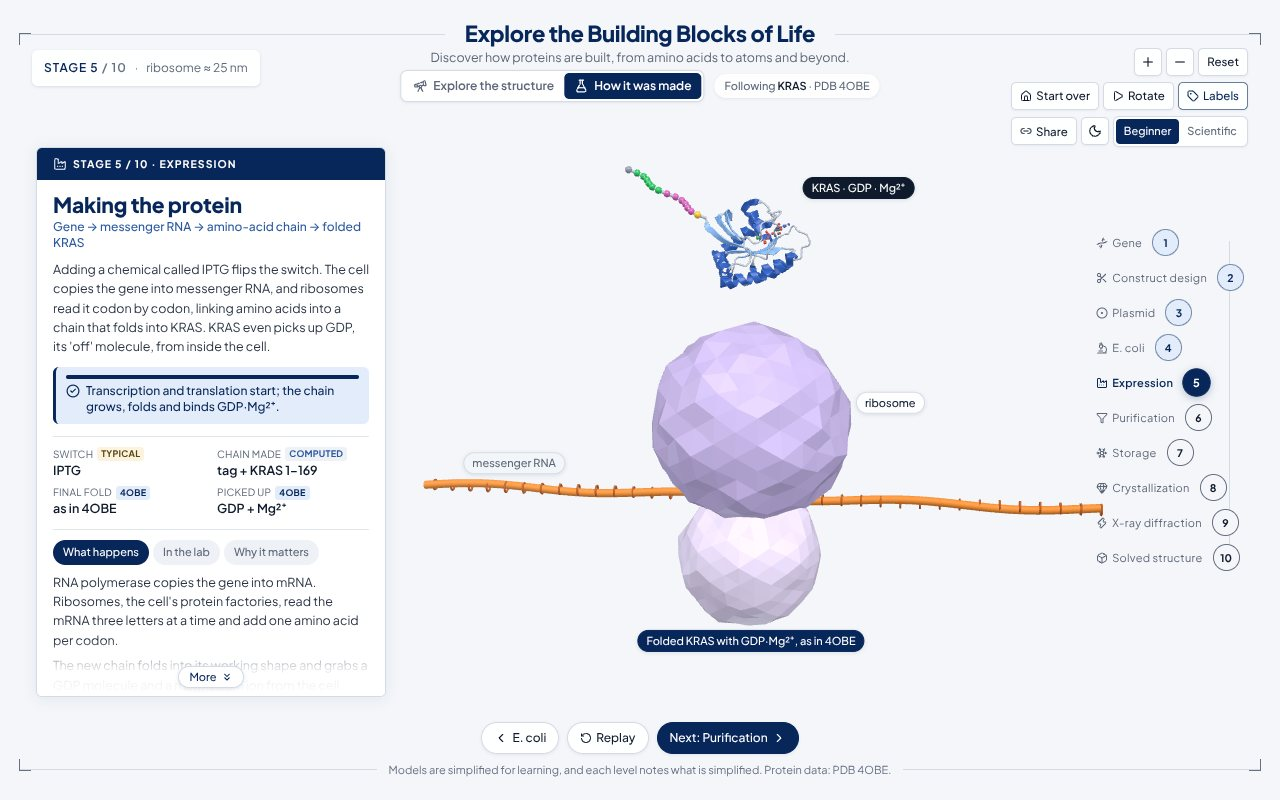
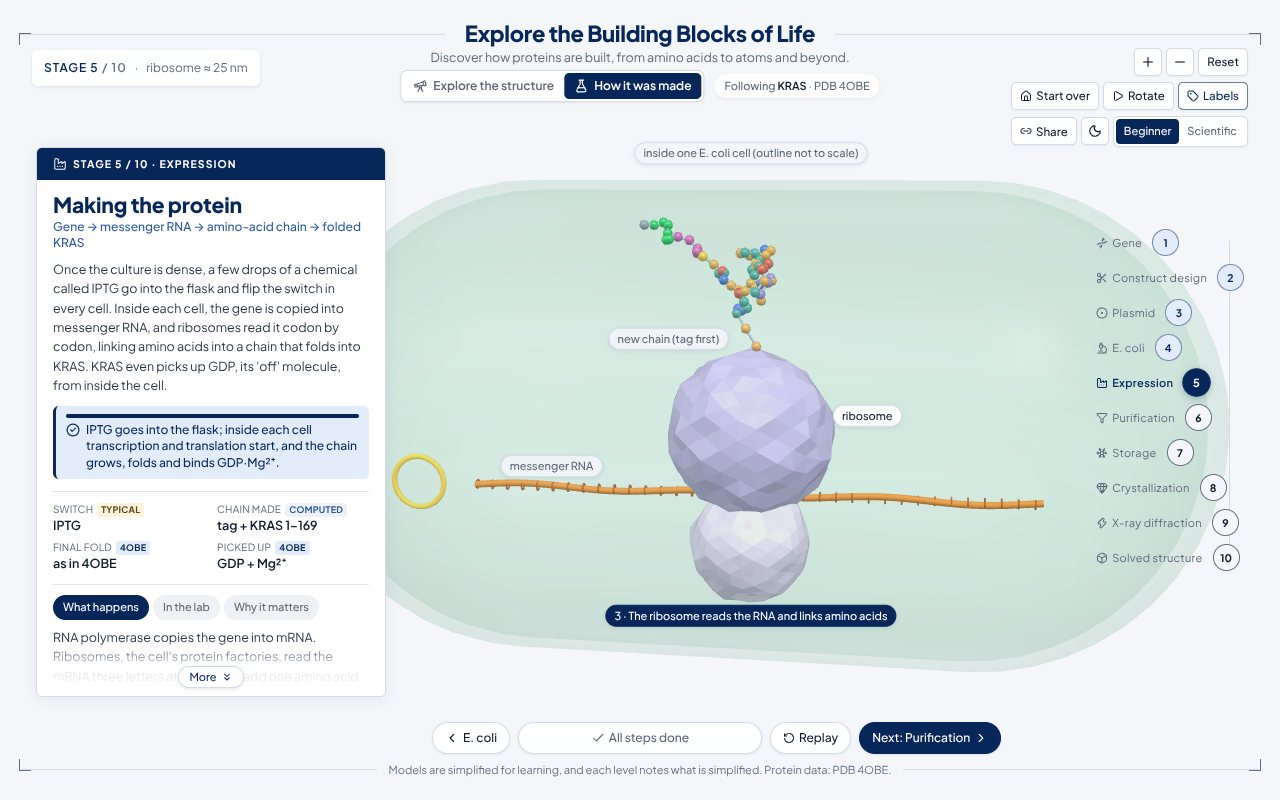
Update README for the new stage views

diff --git a/README.md b/README.md
@@ -48,24 +48,26 @@ Structures can be in either the classic PDB format (`.pdb`) or PDBx/mmCIF (`.cif
 
 ## How it was made: from gene to structure
 
-Switch to **How it was made** (top centre) to follow KRAS (PDB 4OBE) through the ten steps that produced the structure. Each stage is its own 3D scene with lab steps you trigger (**Add IPTG**, **Load the nickel column**, **Let it equilibrate**, …), a card that explains it at Beginner or Scientific level, and a note on what is simplified. Arrow keys move between stages; the last stage opens the finished structure in the explorer.
+Switch to **How it was made** (top centre) to follow KRAS (PDB 4OBE) through the ten steps that produced the structure. Each stage is its own 3D scene with lab steps you trigger (**Add IPTG**, **Load the nickel column**, **Let it equilibrate**, …), a card that explains it at Beginner or Scientific level, and a note on what is simplified. Every stage opens on its starting object (the flask, the lysate tube, the plate), and the main action button stays in the same place from step to step. Arrow keys move between stages; the last stage opens the finished structure in the explorer.
 
 | # | Stage | What you see |
 | --- | --- | --- |
 | 1 | Gene | KRAS on chromosome 12 (12p12.1), then a to-scale B-DNA close-up of codons 10 to 21 with codons 12 (GGT) and 13 (GGC) spelled out |
-| 2 | Construct design | The 188 residues trimmed to the G-domain (1 to 169) and a His-tag plus TEV site added; Gly0, which 4OBE flags as an expression tag, stays behind |
-| 3 | Plasmid | The construct pasted into a pJExpress401 ring with promoter, origin and resistance gene |
-| 4 | E. coli | BL21(DE3) cells take up the plasmid; the antibiotic clears the cells without it; the colony grows |
-| 5 | Expression | IPTG switches the gene on; a ribosome reads the mRNA and the chain folds into the real 4OBE fold and picks up GDP·Mg²⁺ |
-| 6 | Purification | Cells broken open, nickel column (flow-through, wash, imidazole), tag cut off, size exclusion, with schematic chromatograms |
-| 7 | Storage | Concentrated, split into single-use tubes, flash-frozen in liquid nitrogen, kept at −80 °C |
-| 8 | Crystallization | A hanging drop shrinks and crystals grow; inside the crystal, the real C2 unit cell holds 8 KRAS molecules made from the 2 deposited ones by symmetry |
+| 2 | Construct design | The chain is cut after Lys169 (the flexible tail 170 to 188 drifts off), then His-tag and TEV-site beads click on at the N-terminus; Gly0, which 4OBE flags as an expression tag, stays behind |
+| 3 | Plasmid | The construct DNA waits above a pJExpress401 ring, which opens at the cloning site and closes around it |
+| 4 | E. coli | Opens on a flask of broth on a shaking incubator; antibiotic goes in, the view zooms into the BL21(DE3) cells, the cell without the plasmid dies and the rest divide |
+| 5 | Expression | IPTG is pipetted into the grown culture, then the view dives into one cell: inside its outline a ribosome reads the mRNA and the chain folds into the real 4OBE fold and picks up GDP·Mg²⁺ |
+| 6 | Purification | A sonicator probe breaks the cells open in a lysate tube; then nickel column (flow-through, wash, imidazole), tag cut off and size exclusion, with schematic chromatograms |
+| 7 | Storage | The dilute pure protein is concentrated, split into 8 single-use tubes, flash-frozen in liquid nitrogen and kept at −80 °C |
+| 8 | Crystallization | A 96-well plate; the view zooms into one hanging-drop well where the drop shrinks and crystals grow, then compares it with neighbouring wells that stayed clear or precipitated. Inside the crystal, the real C2 unit cell holds 8 KRAS molecules made from the 2 deposited ones by symmetry |
 | 9 | X-ray diffraction | The crystal turns in the beam at APS 19-ID; spots calculated from the 4OBE atoms light up on an ADSC Quantum 315 detector, with a flat detector image you can hover |
-| 10 | Solved structure | Molecular replacement places a search model, refinement settles the atoms into calculated electron density, and the model is deposited as 4OBE |
+| 10 | Solved structure | An empty map box and a misplaced search model; molecular replacement places the model, refinement settles the atoms into calculated electron density, and the model is deposited as 4OBE |
 
-| Plasmid | Expression | Purification |
+| Plasmid | Shaking flask | Inside one cell |
 | --- | --- | --- |
-| ![plasmid](docs/screenshots/pipeline-3-plasmid.jpg) | ![expression](docs/screenshots/pipeline-5-expression.jpg) | ![purification](docs/screenshots/pipeline-6-purification.jpg) |
+| ![plasmid](docs/screenshots/pipeline-3-plasmid.jpg) | ![flask](docs/screenshots/pipeline-4-flask.jpg) | ![expression](docs/screenshots/pipeline-5-expression.jpg) |
+| **Sonication and columns** | **96-well plate** | **Clear, crystals, precipitate** |
+| ![purification](docs/screenshots/pipeline-6-purification.jpg) | ![plate](docs/screenshots/pipeline-8-crystal-plate.jpg) | ![outcomes](docs/screenshots/pipeline-8-crystal-drop.jpg) |
 | **Inside the crystal** | **X-ray diffraction** | **Refined in the electron density** |
 | ![unit cell](docs/screenshots/pipeline-8-crystal-lattice.jpg) | ![diffraction](docs/screenshots/pipeline-9-diffraction.jpg) | ![refined](docs/screenshots/pipeline-10-refined.jpg) |
 
@@ -155,7 +157,7 @@ For example, `/?p=kras&l=4&r=12&a=CA` opens the α-carbon of KRAS Gly12. `/?view
 * **Bead model (II).** One bead stands for a whole residue. This simplification is stated on screen.
 * **Amino acid (III).** Heavy atoms are the crystal coordinates. X-ray structures rarely resolve hydrogens, so they are placed from residue templates (4OBE includes riding hydrogens added during refinement; these are skipped so both proteins are drawn the same way) with ideal geometry (C–H 1.09 Å, N–H 1.01 Å, O–H 0.96 Å; sp³ tetrahedral, sp² trigonal). Protonation states are for pH ≈ 7: Lys/Arg protonated, Asp/Glu deprotonated, His as the Nε2–H tautomer, a charged N-terminus and C-terminus. The free amino acid uses the neutral textbook form; the scientific text notes the zwitterion. Formulas are counted from the displayed atoms and verified against reference formulas for every residue type in ubiquitin.
 * **Atom (IV).** The Bohr-style orbits carry an on-screen warning that electrons do not travel in fixed planetary orbits. The cloud view samples Slater-type 1s/2s/2p densities (Clementi–Raimondi exponents; radial nodes omitted) and fills p orbitals by Hund's rule. The nucleus is enlarged about 10⁴×; the text states the real scale ("a 1 cm marble → an atom about 280 m across").
-* **How it was made: crystal (8).** The unit cell, space group (C 1 2 1) and symmetry operators come from the file. Each of the 8 molecules in the cell is a symmetry copy of one of the two deposited chains, moved by whole cells so its centre lies inside the box; the hover gives the operator, e.g. −x+1/2, y+1/2, −z. The Matthews coefficient computed from the cell (1.99 Å³/Da, 38% solvent) matches the file. The hanging drop is schematic and days are compressed into seconds.
+* **How it was made: crystal (8).** The unit cell, space group (C 1 2 1) and symmetry operators come from the file. Each of the 8 molecules in the cell is a symmetry copy of one of the two deposited chains, moved by whole cells so its centre lies inside the box; the hover gives the operator, e.g. −x+1/2, y+1/2, −z. The Matthews coefficient computed from the cell (1.99 Å³/Da, 38% solvent) matches the file. The plate and drops are schematic and days are compressed into seconds; only the crystallizing condition comes from 4OBE, and the clear and precipitate wells beside it show typical screening outcomes.
 * **How it was made: diffraction (9).** Spots are calculated in the browser: every reflection to the file's 1.24 Å limit is enumerated from the cell, systematic absences are removed (for C2, h + k odd), and each reciprocal-lattice point is recorded where it crosses the Ewald sphere at the recorded wavelength (0.97926 Å) as the crystal turns. Intensities are |F|², summed over all 2,738 heavy atoms and the symmetry operators with four-Gaussian form factors and each atom's B-factor; they agree with a direct brute-force sum to within a few percent. Lorentz and polarisation factors, background, noise and spot shape are left out. The detector distance (about 150 mm) is chosen so the 1.24 Å limit reaches the detector edge, and the crystal mounting is arbitrary. The crystal, loop and pin are enlarged.
 * **How it was made: solved structure (10).** The mesh is electron density calculated from the deposited atoms of the P-loop, GDP and Mg²⁺ (each atom's form factor and B-factor, contoured at 1.2 e/Å³); the first map adds 50 Å² to every B to look blurry. The search model is drawn with 4OBE's own atoms, since 4EPV is not bundled, and the refinement is schematic. R-work and R-free are the file's values.
 * **Particles (V).** Charges, masses, quark content and lifetimes are standard values. Sizes and colours are schematic, and the gluon springs are only a suggestion of the strong force.
@@ -183,11 +185,13 @@ src/
     runtime.ts                   Per-frame transition state and the debug speed
     stages/                      GeneStage, ConstructStage, PlasmidStage, CellStage, ExpressionStage,
                                  PurificationStage, StorageStage, CrystalStage, DiffractionStage,
-                                 StructureStage (+ index.tsx registry)
+                                 StructureStage (+ index.tsx registry), Flask (shaking flask
+                                 shared by stages 4 and 5)
     lib/crystalPacking.ts        Unit-cell packing, cell edges, symmetry operator text, crystal shape
     lib/diffraction.ts           Reflections, absences, Ewald crossings and |F|² (built in slices)
     lib/density.ts               Calculated electron density and its chicken-wire contour
     lib/viewFade.ts              Cross-fade between two views of a stage
+    lib/zoom.ts                  Zoom from an overview (flask) into a detail scene (the cells)
     ui/                          StagePanel, StageWidget (keys, chromatograms, thermometer,
                                  detector image), StageControls, PipelineNav, StagePill
   content/                       Educational content (separate from rendering)
